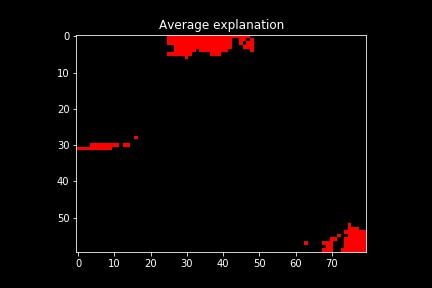
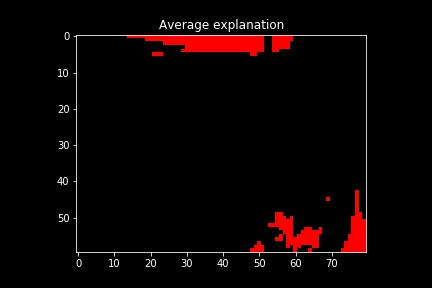
update average explanations

diff --git a/explain_model.py b/explain_model.py
@@ -179,6 +179,48 @@ for i in np.unique(test_labels):
     os.chdir('../../../..')
 print("done")
 
+#%%
+# generate average explanations
+for i in np.unique(test_labels):
+    print("Generating average explanation for {} actions...".format(labels_list[i]))
+    # ensure we're in correct folder
+    assert os.getcwd().split('/')[-1] == 'explainability' 
+    # create necessary folders
+    while True:
+        try:
+            os.chdir('model/explanations/{}/'.format(labels_list[i]))
+            break
+        except FileNotFoundError:
+            os.makedirs('model/explanations/{}/'.format(labels_list[i]))
+
+    i_locations = np.where(top_predictions == i)[0]
+    # randomly pick 10 images; if there are fewer than ten to choose from just
+    # pick them all
+    selection = np.random.choice(i_locations, 10) if len(i_locations) > 10 else i_locations
+    # create mask array
+    mask_array = np.empty([selection.shape[0], 60, 80])
+
+    # generate explanation summary image for each selected image
+    for j in range(selection.shape[0]):
+        # create explanation
+        num_top_labels = 4
+        explanation = explainer.explain_instance(test_images[selection[j]], classifier_fn=model.predict,
+            top_labels=num_top_labels, hide_color=0, num_samples=1000, segmentation_fn=segmenter)
+        temp, mask = explanation.get_image_and_mask(i, positive_only=True, num_features=5,
+            hide_rest=False, min_weight=0.01)
+        mask_array[j] = mask
+
+    # save average explanation
+    if selection.shape[0] > 0:
+        fig, ax = plt.subplots()
+        average_explanation = np.reshape(stats.mode(mask_array, axis=0)[0], (60, 80))
+        ax.imshow(label2rgb(average_explanation, bg_label=0), interpolation='nearest')
+        ax.set_title("Average explanation")
+        plt.savefig("average_explanation.jpg")
+        plt.close(fig)
+
+    os.chdir('../../../')
+print("done")
 
 #%%
 explainer = lime_image.LimeImageExplainer()
